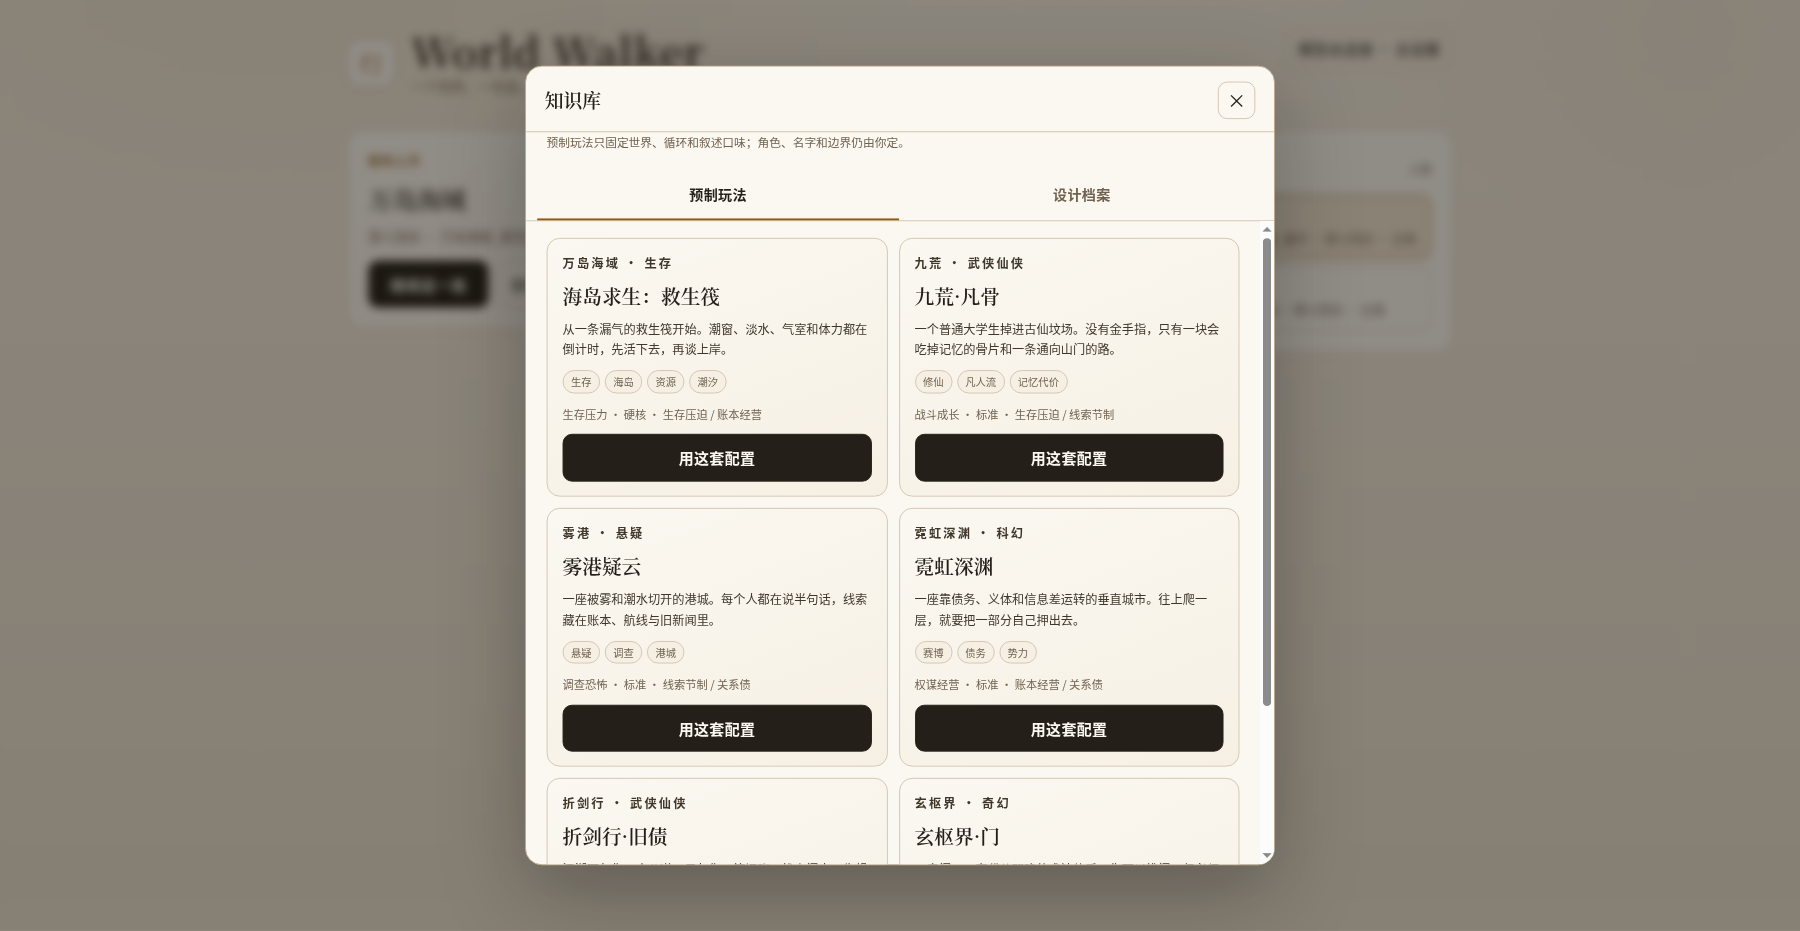
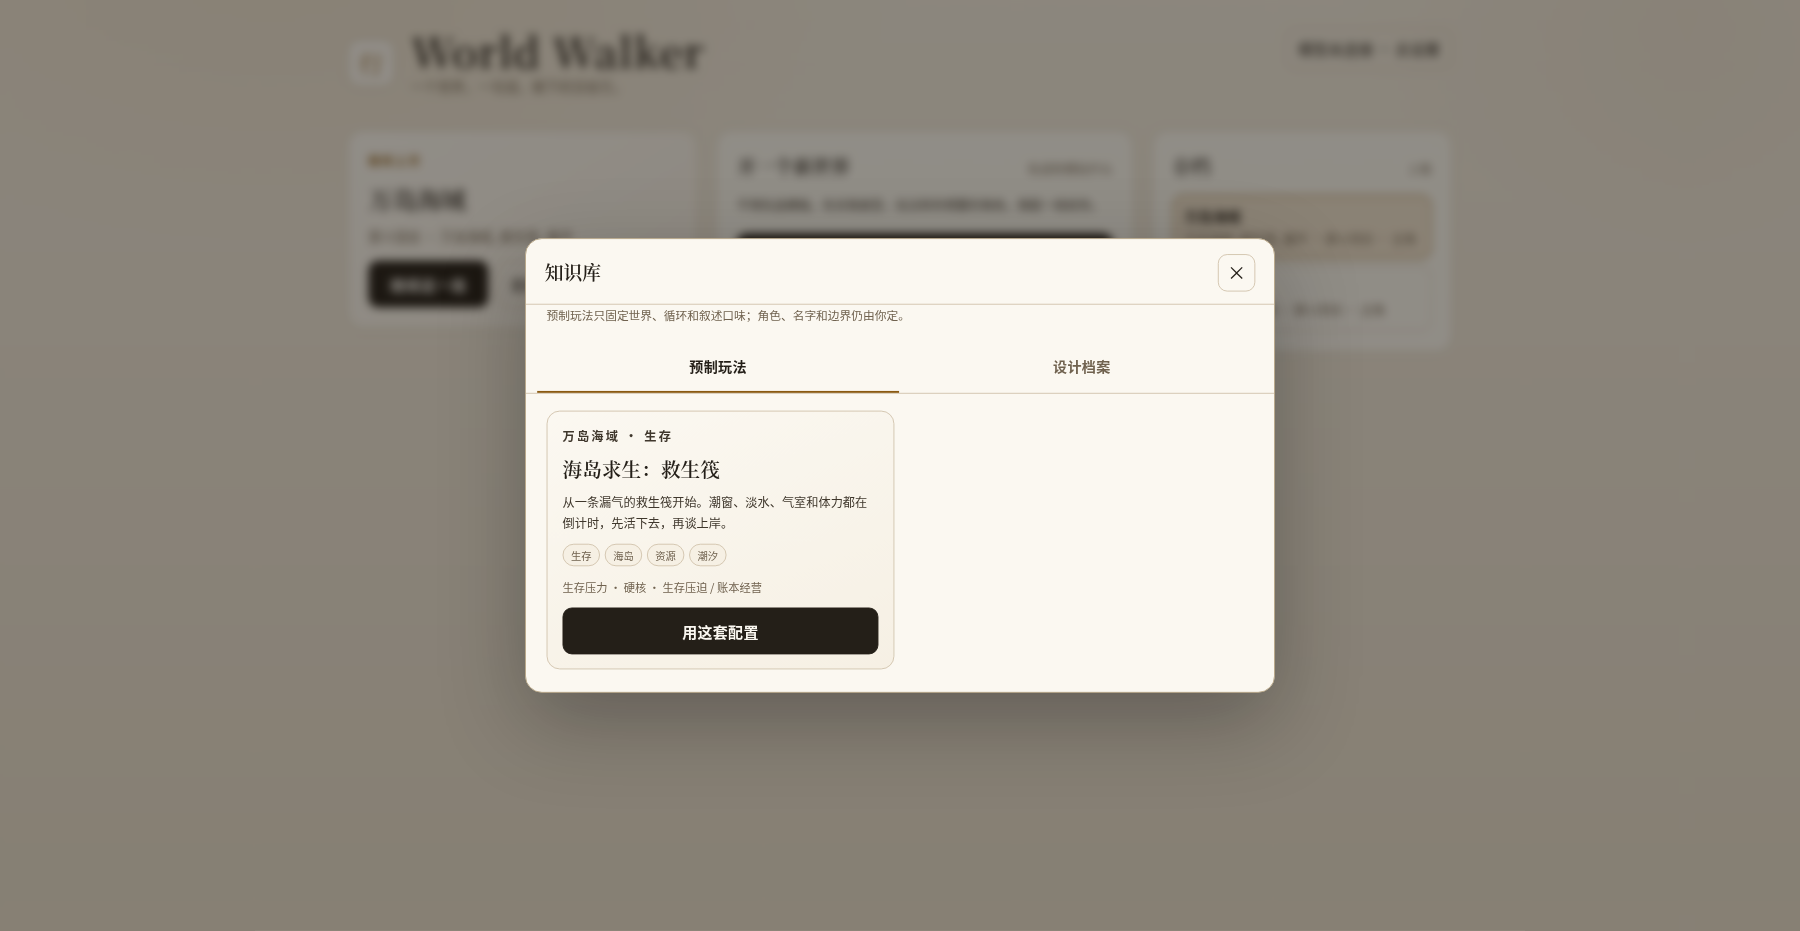
feat: keep only the island-raft scene

Changed region(s): [[0.28, 0.0623, 0.7156, 0.9656]]

diff --git a/scripts/verify_harness.py b/scripts/verify_harness.py
@@ -253,7 +253,7 @@ def g5_runtime(tmp):
 def g6_library():
     from game_engine import library, narrative_rules
     data = library.payload()
-    check('知识库至少 4 个预制玩法', len(data['playbooks']) >= 4,
+    check('知识库至少 1 个预制玩法', len(data['playbooks']) >= 1,
           ', '.join(row['id'] for row in data['playbooks']))
     check('知识库至少 2 份档案', len(data['archives']) >= 2,
           ', '.join(row['id'] for row in data['archives']))

diff --git a/README.md b/README.md
@@ -40,7 +40,7 @@ wg play --state my-game.json
 
 ## Knowledge library
 
-The lobby's “Start from a prefab or archive” entry offers six selectable starts: island survival, Nine Wastes, Fog Port, Neon Abyss, Sword Break, and the Xuan Gate. A prefab fixes the world, play loop, difficulty, tone and narrative style; name, role, boundaries and what happens next still belong to the player.
+The lobby's “Start from a prefab or archive” entry offers one selectable start: island survival in the Ten Thousand Islands Sea. The prefab fixes the world, play loop, difficulty, tone and narrative style; name, role, boundaries and what happens next still belong to the player.
 
 “Design archives” holds the raft, prefab-authoring and release-discipline notes. The data lives in `library/playbooks/*.json` and `library/archives/*.md` and ships with the package.
 

diff --git a/README.zh-CN.md b/README.zh-CN.md
@@ -40,7 +40,7 @@ wg play --state my-game.json
 
 ## 知识库与预制玩法
 
-大厅的“从预制玩法或档案开始”里有六套可直接选择的入口：海岛求生、九荒凡骨、雾港疑云、霓虹深渊、折剑行旧债、玄枢界门。预制包只固定世界、循环、难度、基调和叙述风格；名字、角色、边界和之后发生什么仍由玩家决定。
+大厅的“从预制玩法或档案开始”里只保留一套可直接选择的入口：万岛海域·海岛求生。预制包只固定世界、循环、难度、基调和叙述风格；名字、角色、边界和之后发生什么仍由玩家决定。
 
 “设计档案”里有救生筏、预制玩法规范和发布纪律三份底稿。数据在 `library/playbooks/*.json` 与 `library/archives/*.md`，随安装包一起分发。
 
